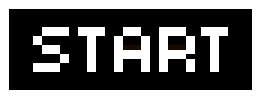
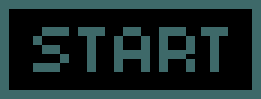
Menüü leht on valmis, lisasin pealkirja ja muutsin nuppude värvi

diff --git a/Projekt_Teppo_menüü.py b/Projekt_Teppo_menüü.py
@@ -16,6 +16,11 @@ start_game = False
 #background image
 BG = pygame.image.load("materjalid/dark forest/Preview.png").convert()
 BG = pygame.transform.scale(BG, (960,540))
+#font
+font = pygame.font.Font("fondid/Pixeltype.ttf", 125)
+font_shadow = pygame.font.Font("fondid/Pixeltype.ttf", 125)
+text = font.render("Teppo reis koju", True, "darkslategray")
+text_shadow = font_shadow.render("Teppo reis koju", True, "black")
 #button images
 start_img = pygame.image.load("pildid/Nupud/start_btn.png").convert_alpha()
 exit_img = pygame.image.load("pildid/Nupud/exit_btn.png").convert_alpha()
@@ -29,6 +34,8 @@ while run:
 
     if start_game == False:
         screen.blit(BG, (0,0))
+        screen.blit(text_shadow, (180,40))
+        screen.blit(text, (175,40))
         if start_button.draw(screen):
             start_game = True
         if exit_button.draw(screen):
